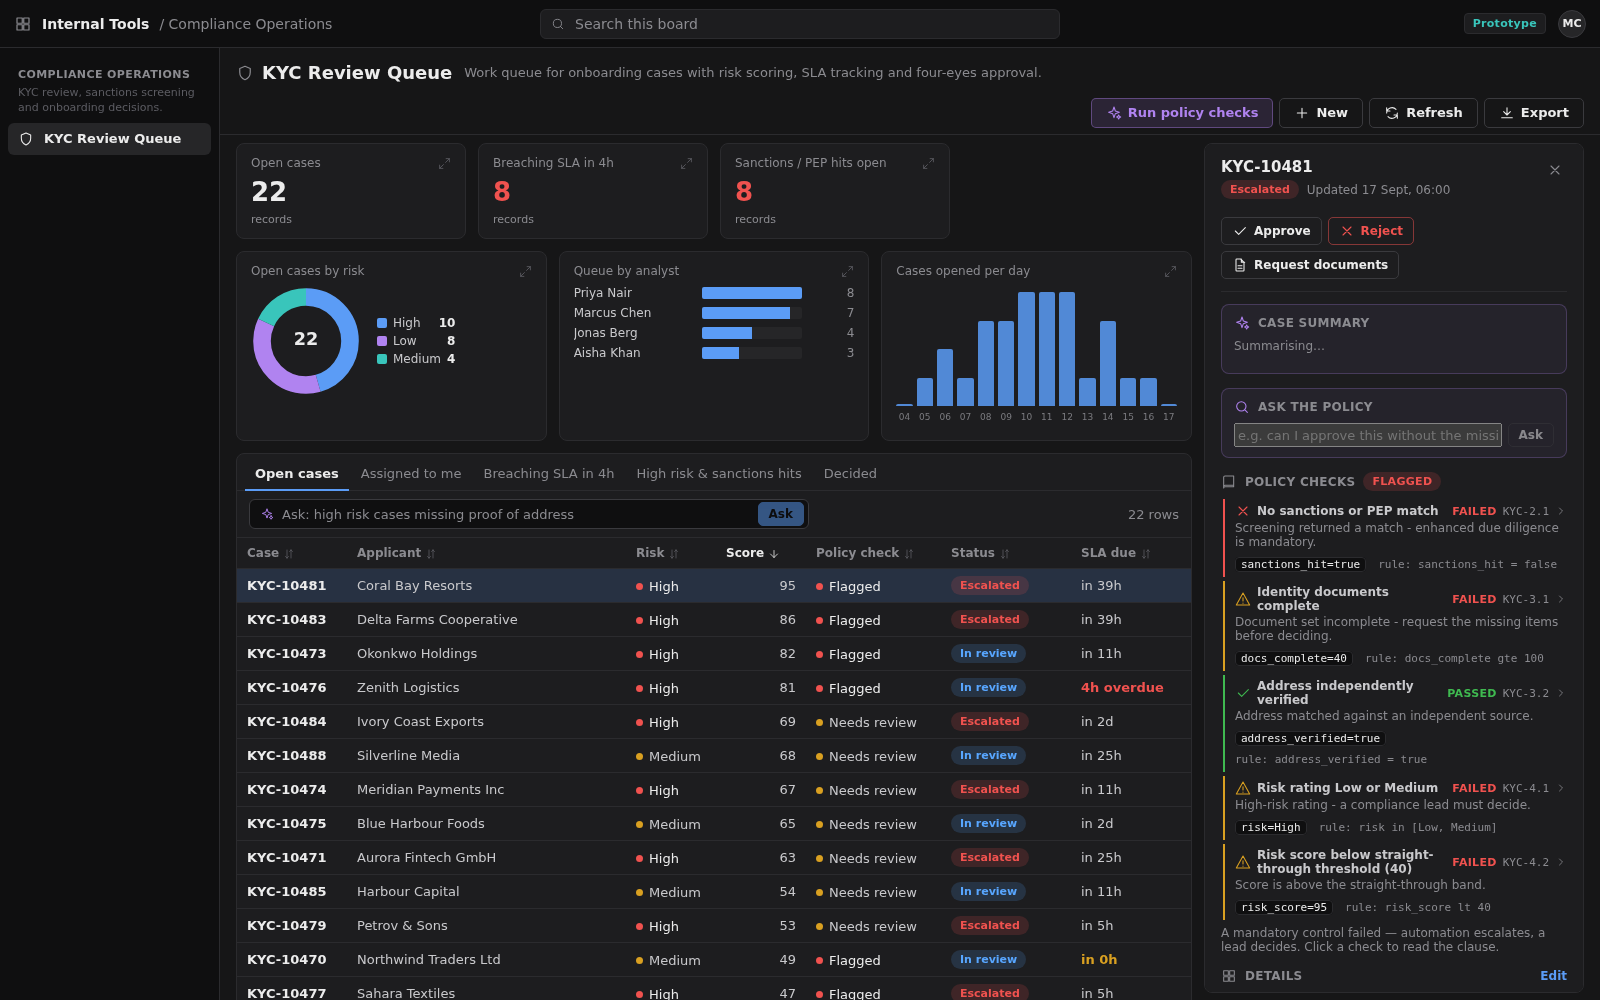
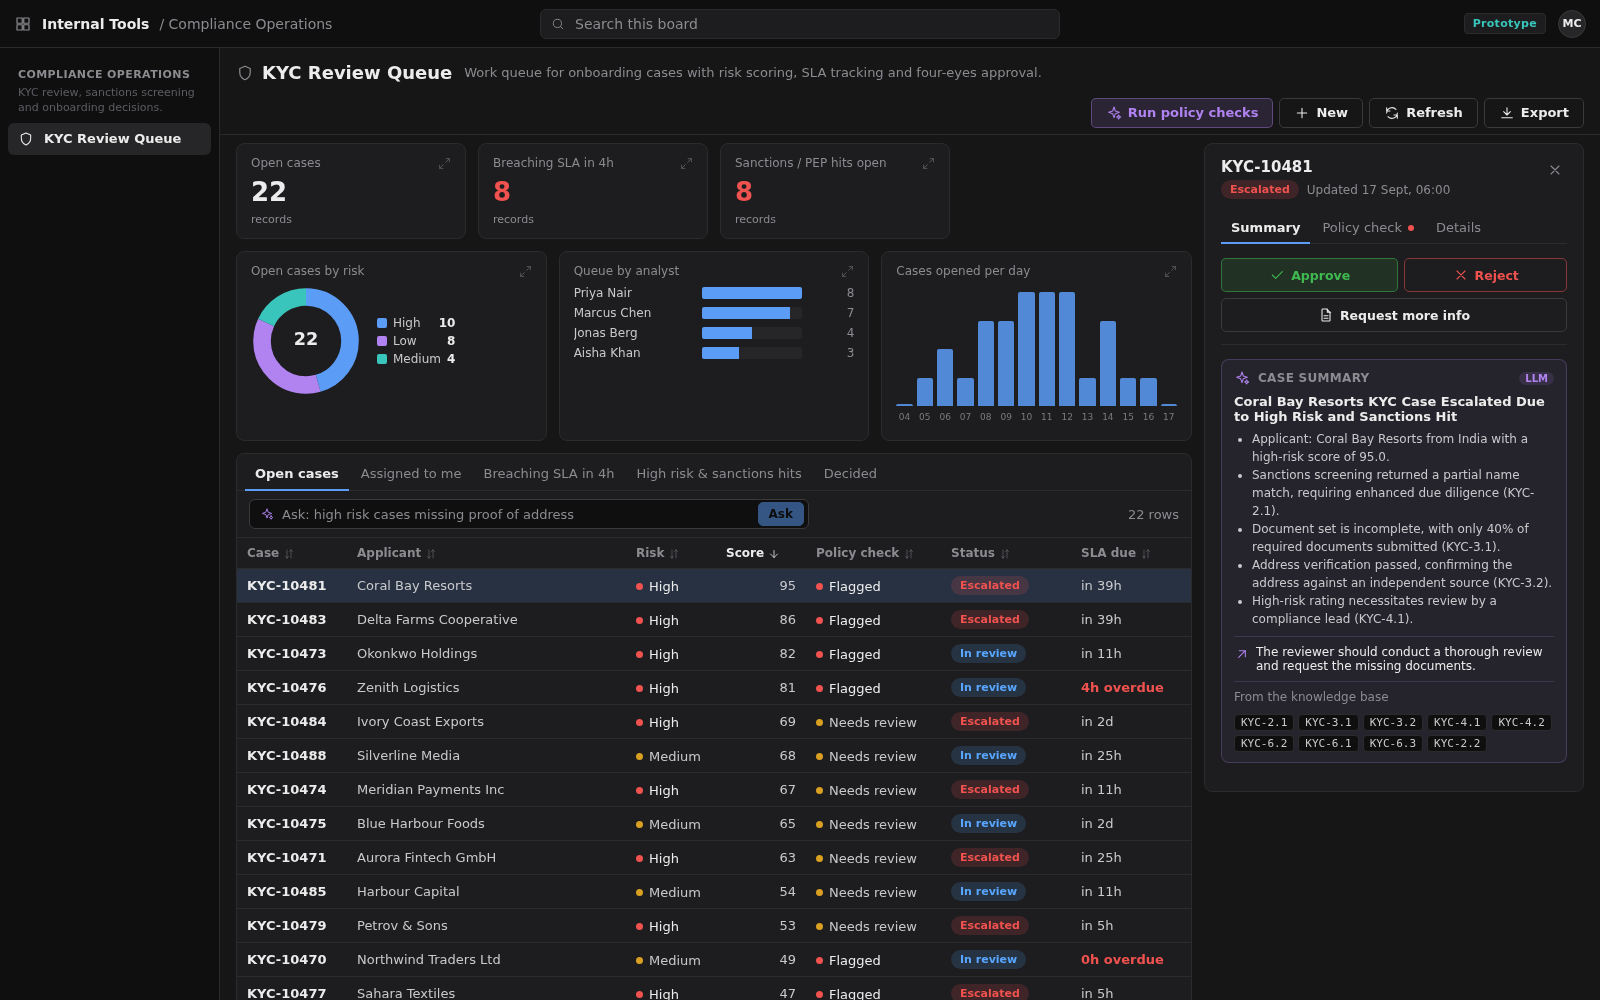
Record pane: Summary / Policy check / Details tabs with Approve / Reject / Request more info decision row

Changed region(s): [[0.75, 0.217, 0.9688, 0.899], [0.75, 0.93, 0.9688, 0.992], [0.6875, 0.93, 0.7188, 0.961]]

diff --git a/web/src/RecordPane.tsx b/web/src/RecordPane.tsx
@@ -105,8 +105,49 @@ function AskPolicy({ tool, record }: { tool: ToolSpec; record: Rec }) {
 }
 
 
+type Tab = 'summary' | 'policy' | 'details'
+const DECISIONS: { kind: NonNullable<ActionSpec['decision']>; cls: string }[] = [
+  { kind: 'approve', cls: 'approve' }, { kind: 'reject', cls: 'danger' }, { kind: 'info', cls: 'secondary' },
+]
+
+function Decisions({ actions, record, actionEnabled, onAction }: { actions: ActionSpec[]; record: Rec; actionEnabled: (a: ActionSpec, r: Rec) => boolean; onAction: (a: ActionSpec, r: Rec) => void }) {
+  const slots = DECISIONS.map(d => {
+    const all = actions.filter(a => a.decision === d.kind)
+    if (!all.length) return null
+    const a = all.find(x => actionEnabled(x, record)) ?? all.find(x => x.allowed) ?? all[0]
+    const enabled = actionEnabled(a, record)
+    const why = enabled ? '' : !a.allowed ? `Requires role: ${a.roles.join(' / ')}` : 'Not available in the current state'
+    return { ...d, a, enabled, why }
+  }).filter((s): s is NonNullable<typeof s> => s !== null)
+  const others = actions.filter(a => !a.decision && a.allowed && actionEnabled(a, record))
+  if (!slots.length && !others.length) return <div className="sub">No actions available in the current state.</div>
+  return (
+    <div className="decisions">
+      {slots.length > 0 && (
+        <div className="decision-row">
+          {slots.map(s => (
+            <button key={s.kind} className={`btn ${s.cls}`} disabled={!s.enabled} title={s.why || s.a.label} onClick={() => onAction(s.a, record)}>
+              <Icon name={actionIcon(s.a.id, s.a.icon, s.a.destructive)} />{s.a.label}
+            </button>
+          ))}
+        </div>
+      )}
+      {others.length > 0 && (
+        <div className="pane-actions">
+          {others.map(a => (
+            <button key={a.id} className={`btn small ${a.destructive ? 'danger' : 'secondary'}`} onClick={() => onAction(a, record)}>
+              <Icon name={actionIcon(a.id, a.icon, a.destructive)} />{a.label}
+            </button>
+          ))}
+        </div>
+      )}
+    </div>
+  )
+}
+
 export function RecordPane({ tool, record, actions, actionEnabled, onAction, onClose, onSaved, toast }: Props) {
   const [values, setValues] = useState<Record<string, unknown>>({})
+  const [tab, setTab] = useState<Tab>('summary')
   const [audit, setAudit] = useState<AuditEntry[]>([])
   const [review, setReview] = useState<Review | null>(null)
   const [summary, setSummary] = useState<Summary | null>(null)
@@ -119,6 +160,7 @@ export function RecordPane({ tool, record, actions, actionEnabled, onAction, onC
 
   useEffect(() => {
     setErr(''); setReview(null); setSummary(null)
+    if (!hasPolicy) setTab(t => (t === 'policy' ? 'summary' : t))
     if (record) {
       setValues({ ...record }); setShowForm(false)
       api.audit(tool.id, record.id).then(setAudit).catch(() => setAudit([]))
@@ -159,8 +201,6 @@ export function RecordPane({ tool, record, actions, actionEnabled, onAction, onC
 
   const title = record ? String(record[tool.title_field]) : `New ${tool.entity.replace('_', ' ')}`
   const status = record && typeof record.status === 'string' ? record.status : null
-  const usable = record ? actions.filter(a => a.allowed && actionEnabled(a, record)) : []
-  const blocked = record ? actions.filter(a => a.allowed && !actionEnabled(a, record)) : []
   const keyFields = tool.fields.filter(f => !f.computed && f.name !== tool.title_field && f.name !== 'status' && !['created_at', 'updated_at'].includes(f.name))
 
   return (
@@ -177,18 +217,24 @@ export function RecordPane({ tool, record, actions, actionEnabled, onAction, onC
         <button className="iconbtn" onClick={onClose} title="Close"><Icon name="x" /></button>
       </div>
 
-      {record && actions.length > 0 && (
-        <div className="pane-actions">
-          {usable.map(a => (
-            <button key={a.id} className={`btn ${a.destructive ? 'danger' : 'secondary'}`} onClick={() => onAction(a, record)}>
-              <Icon name={actionIcon(a.id, a.icon, a.destructive)} />{a.label}
-            </button>
-          ))}
-          {usable.length === 0 && <div className="sub">No actions available in the current state{blocked.length ? ` (${blocked.map(b => b.label).join(', ')} need a different status)` : ''}.</div>}
+      {record && (
+        <div className="pane-tabs">
+          {([['summary', 'Summary'], ['policy', 'Policy check'], ['details', 'Details']] as [Tab, string][])
+            .filter(([id]) => id !== 'policy' || hasPolicy)
+            .map(([id, label]) => (
+              <button key={id} className={`view ${tab === id ? 'active' : ''}`} onClick={() => setTab(id)}>
+                {label}
+                {id === 'policy' && review && <span className={`dotted ${pillColour(review.verdict)}`}><span className="dot" /></span>}
+              </button>
+            ))}
         </div>
       )}
 
-      {record && review?.ai_decision && (
+      {record && tab === 'summary' && actions.length > 0 && (
+        <Decisions actions={actions} record={record} actionEnabled={actionEnabled} onAction={onAction} />
+      )}
+
+      {record && tab === 'summary' && review?.ai_decision && (
         <section className="ai-decision">
           <div className="ai-head">
             <Icon name="sparkle" />
@@ -214,7 +260,7 @@ export function RecordPane({ tool, record, actions, actionEnabled, onAction, onC
         </section>
       )}
 
-      {record && hasPolicy && (
+      {record && tab === 'summary' && hasPolicy && (
         <section className="ai">
           <div className="ai-head">
             <Icon name="sparkle" />
@@ -233,9 +279,9 @@ export function RecordPane({ tool, record, actions, actionEnabled, onAction, onC
         </section>
       )}
 
-      {record && hasPolicy && <AskPolicy tool={tool} record={record} />}
+      {record && tab === 'policy' && hasPolicy && <AskPolicy tool={tool} record={record} />}
 
-      {record && hasPolicy && (
+      {record && tab === 'policy' && hasPolicy && (
         <section className="policy">
           <div className="ai-head">
             <Icon name="book" />
@@ -255,7 +301,7 @@ export function RecordPane({ tool, record, actions, actionEnabled, onAction, onC
         </section>
       )}
 
-      {record && !showForm && (
+      {record && tab === 'details' && !showForm && (
         <section className="details">
           <div className="ai-head"><Icon name="grid" /><span>Details</span>
             <span className="spacer" />
@@ -277,7 +323,7 @@ export function RecordPane({ tool, record, actions, actionEnabled, onAction, onC
         </section>
       )}
 
-      {showForm && (
+      {(isNew || tab === 'details') && showForm && (
         <div className="form">
           {tool.fields.filter(f => !f.computed).map(f => (
             <div className="f" key={f.name}>
@@ -294,7 +340,7 @@ export function RecordPane({ tool, record, actions, actionEnabled, onAction, onC
         </div>
       )}
 
-      {record && (
+      {record && tab === 'details' && (
         <div className="audit">
           <h4>Audit trail</h4>
           {audit.length === 0 && <div className="sub">No changes recorded yet.</div>}

diff --git a/web/src/index.css b/web/src/index.css
@@ -195,7 +195,15 @@ td .link { color: var(--text); font-weight: 600; }
 .pane-head { display: flex; justify-content: space-between; align-items: flex-start; gap: 8px; }
 .pane h3 { margin: 0 0 4px; font-size: 15px; }
 .pane .sub { color: var(--muted); font-size: 12px; margin-bottom: 10px; display: flex; gap: 8px; align-items: center; flex-wrap: wrap; }
-.pane-actions { display: flex; flex-wrap: wrap; gap: 6px; padding: 8px 0 12px; border-bottom: 1px solid var(--line); margin-bottom: 12px; }
+.pane-tabs { display: flex; gap: 2px; border-bottom: 1px solid var(--line); margin: 4px 0 14px; }
+.pane-tabs .view { padding: 7px 10px; display: inline-flex; align-items: center; gap: 6px; }
+.pane-tabs .dotted .dot { width: 6px; height: 6px; }
+.decisions { padding-bottom: 12px; border-bottom: 1px solid var(--line); margin-bottom: 14px; }
+.decision-row { display: flex; flex-wrap: wrap; gap: 6px; }
+.decision-row .btn { flex: 1 1 auto; justify-content: center; padding: 8px 8px; font-size: 12.5px; }
+.btn.approve { background: rgba(63,185,80,.14); color: var(--green); border-color: rgba(63,185,80,.5); }
+.btn.approve:hover:not(:disabled) { background: rgba(63,185,80,.26); filter: none; }
+.pane-actions { display: flex; flex-wrap: wrap; gap: 6px; padding-top: 8px; }
 .pane-actions .btn { padding: 5px 10px; font-size: 12px; }
 .pane section { margin-bottom: 14px; }
 .ai-head { display: flex; align-items: center; gap: 8px; font-size: 12px; font-weight: 600; color: var(--muted); text-transform: uppercase; letter-spacing: .3px; margin-bottom: 8px; }

diff --git a/web/src/api.ts b/web/src/api.ts
@@ -10,7 +10,7 @@ export interface ViewSpec { id: string; name: string; filter: Filter; columns: s
 export interface ActionSpec {
   id: string; label: string; roles: string[]; set: Record<string, unknown>; only_when: Filter
   requires_comment: boolean; confirm: string | null; webhook: string | null; destructive: boolean; icon: string | null
-  allowed: boolean
+  decision: 'approve' | 'reject' | 'info' | null; allowed: boolean
 }
 export interface CheckSpec { id: string; clause: string; title: string; on_fail: 'flag' | 'review' }
 export interface AutoReviewSpec { policy: string; scope: Filter; clear_action: string | null; flag_action: string | null; actor: string }

diff --git a/server/spec.py b/server/spec.py
@@ -75,6 +75,7 @@ class ActionSpec(BaseModel):
     destructive: bool = False
     icon: str | None = None
     system: bool = False  # only runnable by automation (auto_review); hidden from the command bar
+    decision: Literal["approve", "reject", "info"] | None = None  # slot in the record pane's decision row
 
 
 class CheckSpec(BaseModel):

diff --git a/README.md b/README.md
@@ -148,9 +148,12 @@ Optional: copy `.env.example` to `.env` and set `OPENAI_API_KEY` for live LLM ou
 Secrets store; nothing in the repo ever holds a value.
 
 **Working a queue fast:** rows show only what you need to triage; open a record for the full
-detail and its actions (approve, reject, escalate, hold, enable, kill switch…) at the top of the
-pane. ↑/↓ move through the queue, Enter opens the record, Esc closes it. Acting on an open
-record advances to the next one in the queue.
+detail in a three-tab pane: **Summary** (AI case summary + Approve / Reject / Request more info,
+plus any secondary actions such as hold or kill switch), **Policy check** (the clause checks and
+the Ask-the-policy box) and **Details** (every field, edit, audit trail). Which action fills each
+decision slot comes from `decision: approve|reject|info` on the tool's YAML actions. ↑/↓ move
+through the queue, Enter opens the record, Esc closes it. Acting on an open record advances to
+the next one in the queue.
 
 Sign in as a demo identity — each sees only the boards its roles grant:
 
